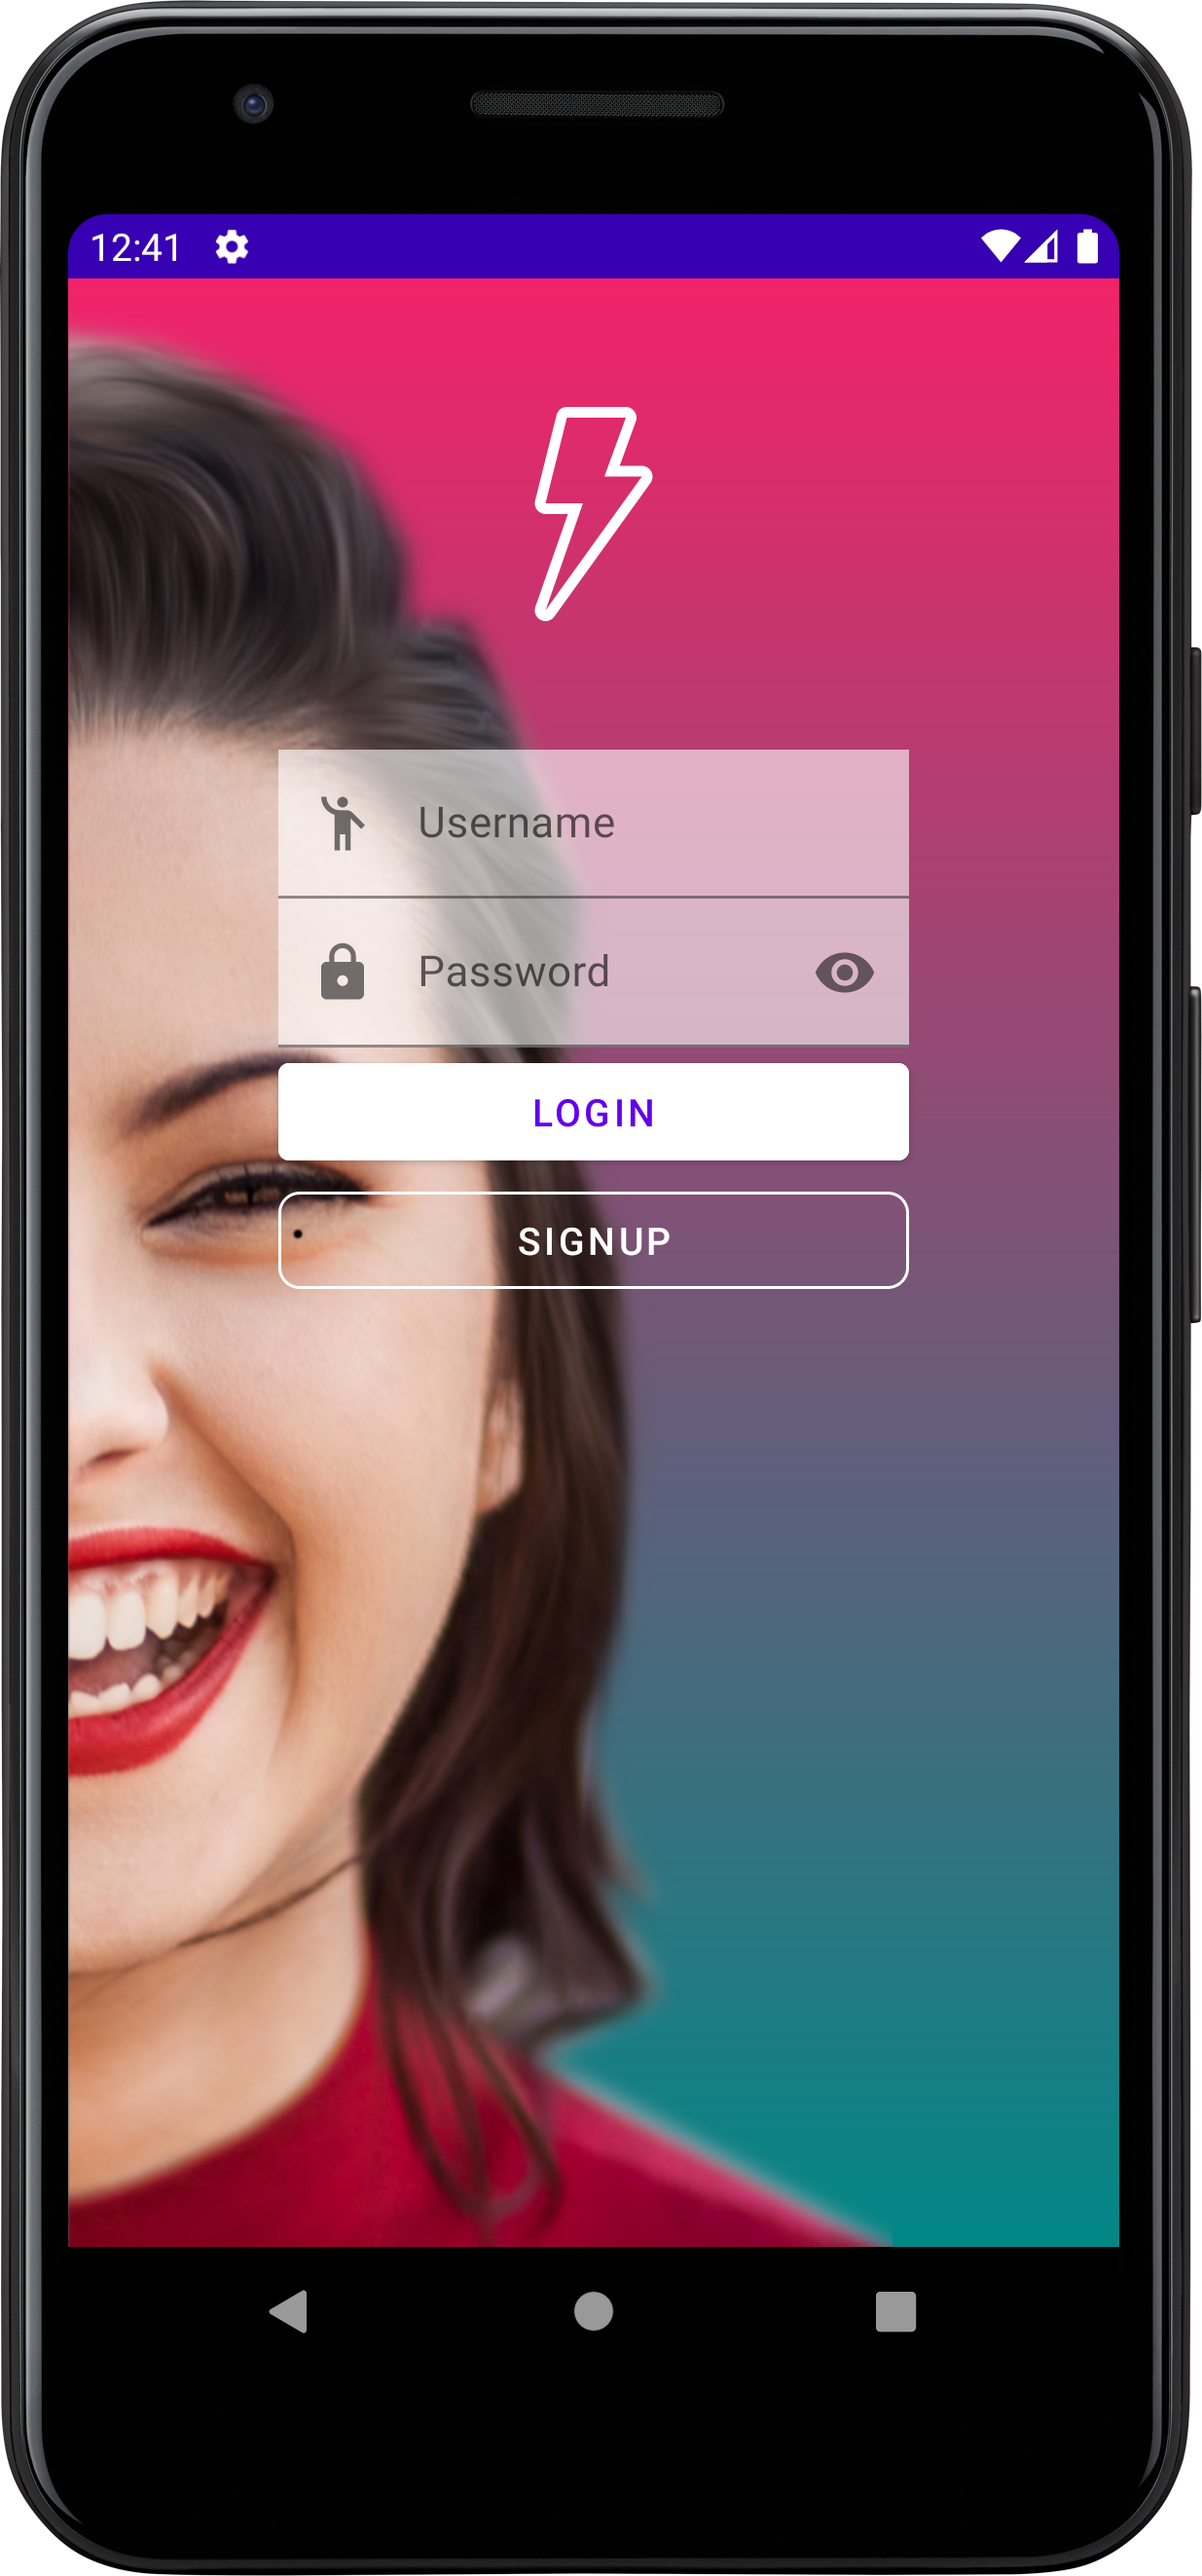
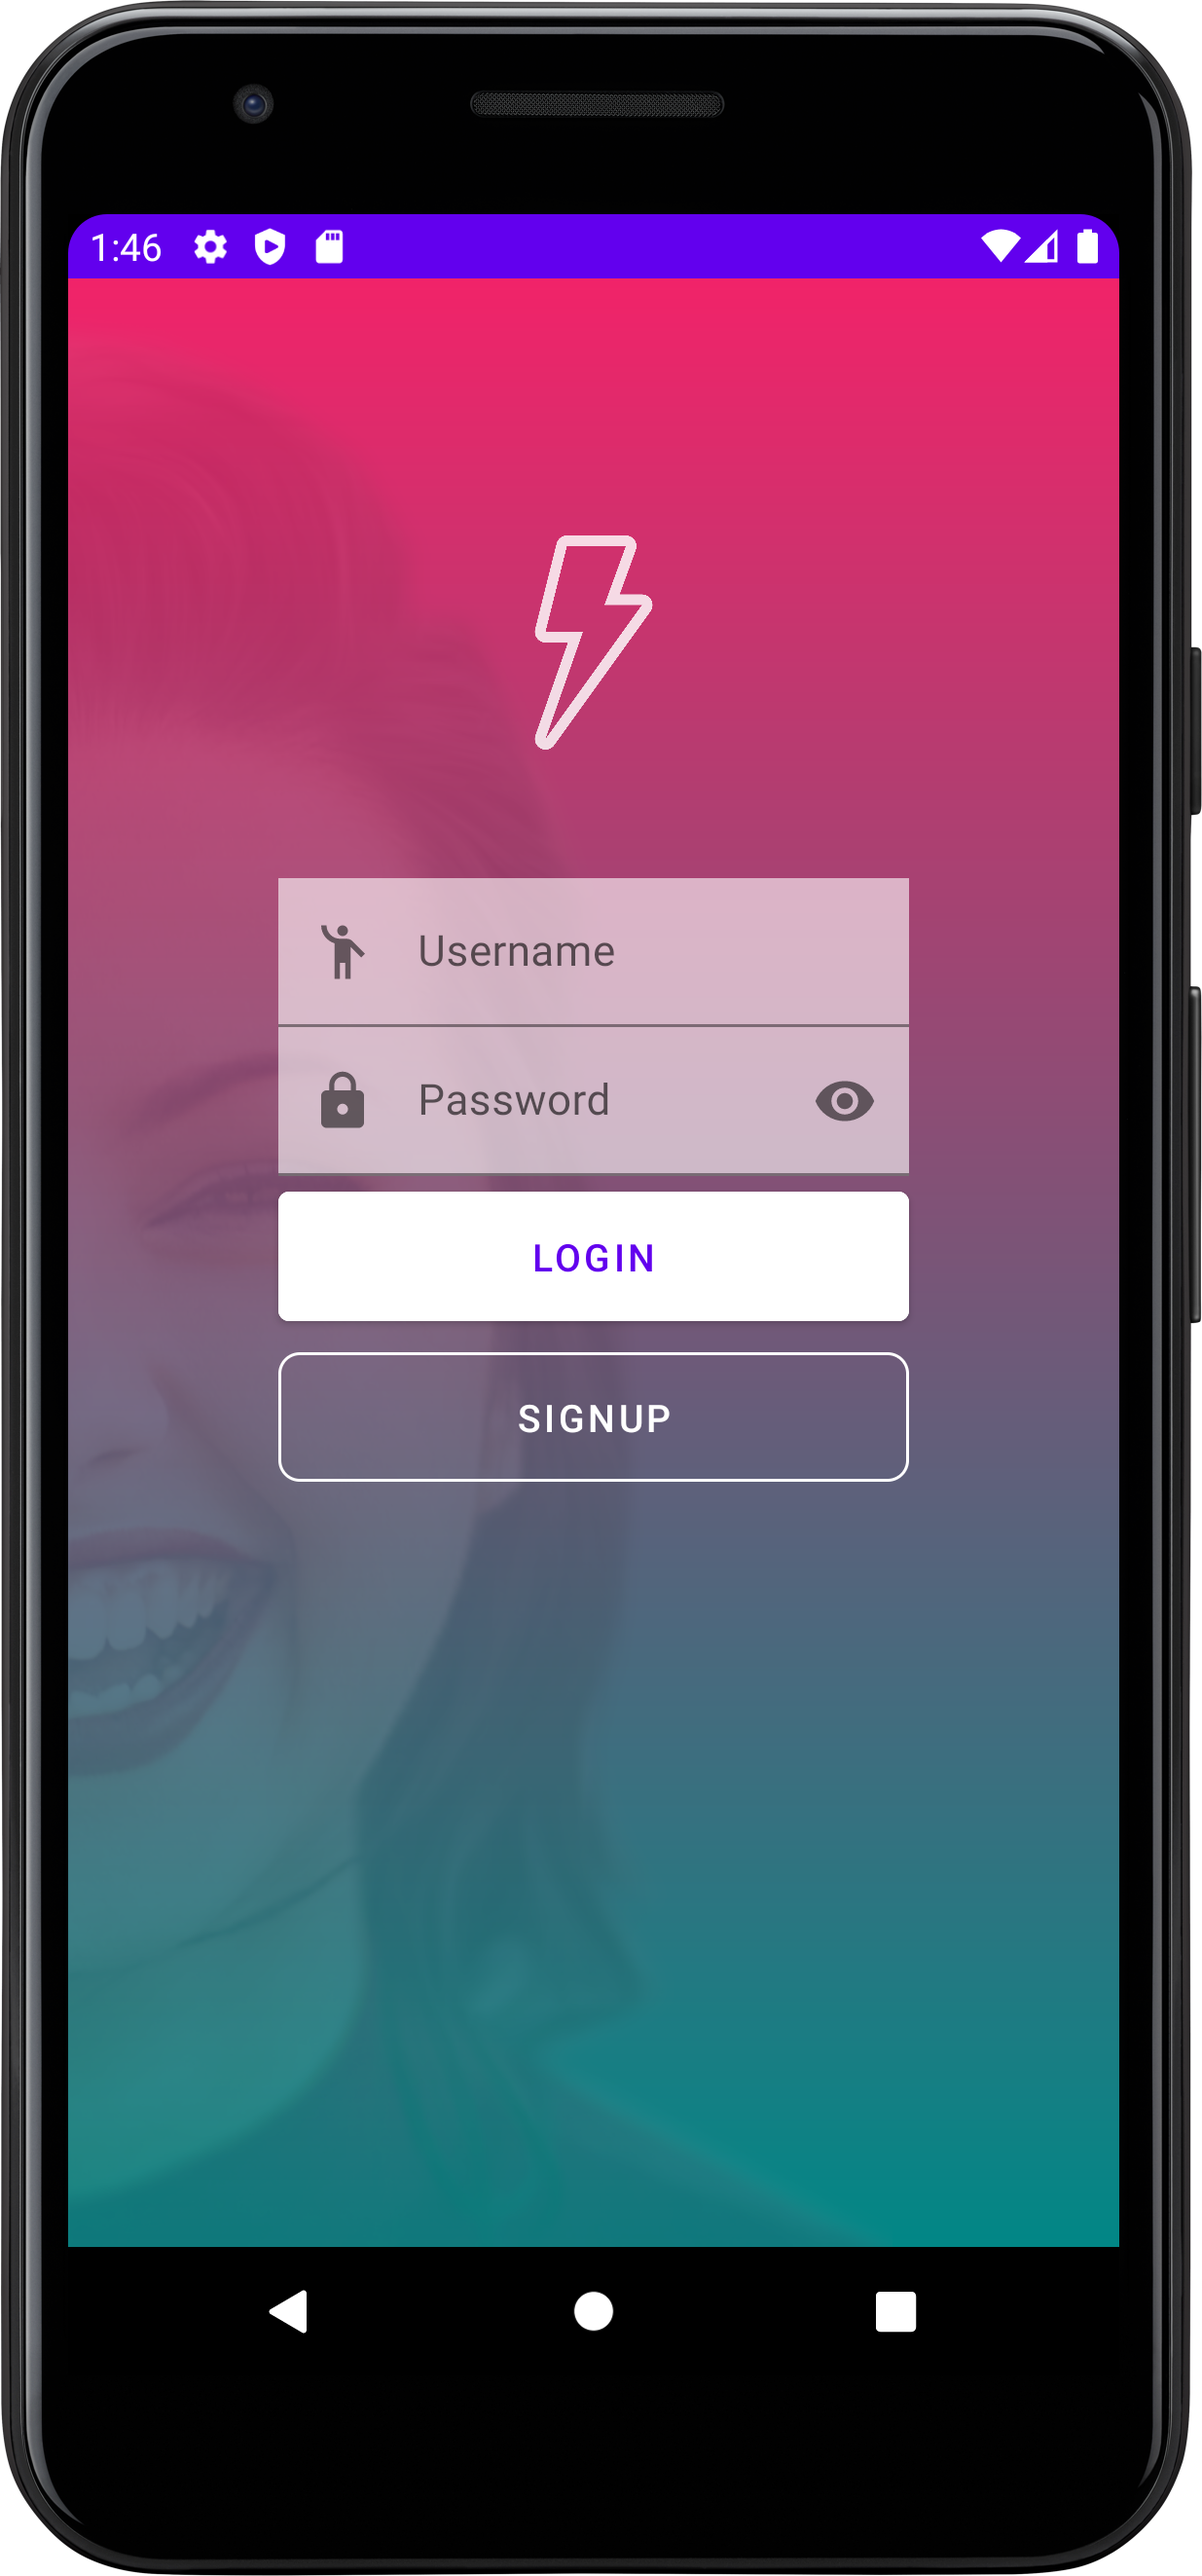
Add screenshots to img, update README

diff --git a/README.md b/README.md
@@ -10,6 +10,8 @@ and
 
 **I've made a pull request to [this repository](https://github.com/atomms/First.git), on the [alejandro23](https://github.com/atomms/First/tree/alejandro23) branch.**
 
+**Click [here]() to watch a screen recording of the full functioning application.**
+
 **There are more screenshots and screen recordings of the functions and
 views of the application, that can be found at the
 [img folder](./img)!**
@@ -21,7 +23,7 @@ views of the application, that can be found at the
    2. **[Login activity](#login-activity).**
    3. **[Register activity](#register-activity).**
    4. **[Main activity](#main-activity).**
-   5. **[No people activity](nopeople-activity).**
+   5. **[No people activity](#no-people-activity).**
 2. [x] Landscape layouts, to get a nice experience even in landscape
        mode.
 3. [x] Editable text areas.
@@ -58,33 +60,21 @@ cross fade animation, and an animated thunder icon like the logo of the app.
 
 ## Login activity
 This activity is the login screen for our app, with different text areas
-and buttons to let the users log in to the application.
+and buttons to let the users log in to the application. It has an
+animated thunder (the logo of the app) that blinks.
 
 ![Login activity - Portrait](./img/Screenshot_login_1.png)
-
-Although this is not the main activity, it´s the view that shows on
-screen the first every time you open the app.
-
-There is also a view of this activity on landscape mode!
-
-![Login activity - Landscape](./img/Screenshot_login_land_1.png)
 
 ## Register activity
 
 This activity is the register screen for the users to create an account.
-From here we can go back to the Login activity or we can go to the Main
-activity, using the **buttons** below. Also we can go back to Login
-using the arrow of the [action bar](#themes---action-bars) on the upper
-part of the screen.
+From here we can go back to the Login activity or to the Main activity,
+using the **buttons** below. Also we can go back to Login using the
+arrow of the [action bar](#themes---action-bars) on the upper part of
+the screen. It also has the animated thunder logo on the top of the
+screen.
 
-![Register activity - Portrait](./img/Screenshot_signup_1.png)
-
-There is also a view of this activity on landscape mode!
-
-![Register activity - Landscape](./img/Screenshot_signup_land_1.png)
-
->Here, we can see the different constraints and GuideLines used to create
->this screen.
+![Register activity - Portrait](./img/Screenshot_register_1.png)
 
 ## Main activity
 
@@ -97,13 +87,15 @@ dark mode that changes the colors of it´s palette.
 
 ![Main activity - Portrait - Ligth](./img/Screenshot_main_1.png)
 
-![Main activity - Portrait - Night](./img/Screenshot_main_2.png)
-
-There is also a view of this activity on landscape mode!
+![Main activity - Portrait - Night](./img/Screenshot_main_dark_1.png)
 
 ![Main activity - Landscape - Light](./img/Screenshot_main_land_1.png)
 
-![Main activity - Landscape - Night](./img/Screenshot_main_land_2.png)
+![Main activity - Landscape - Night](./img/Screenshot_main_land_dark_1.png)
+
+## No people activity
+
+<!-- TODO: Working on here! -->
 
 ## Themes - Action bars
 
